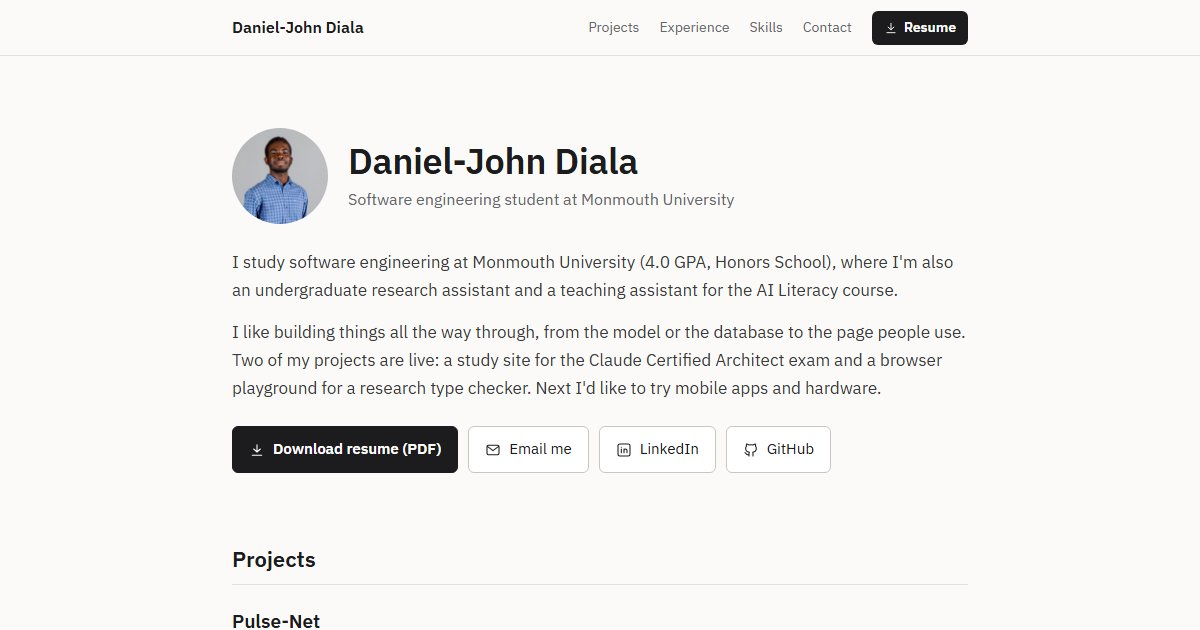
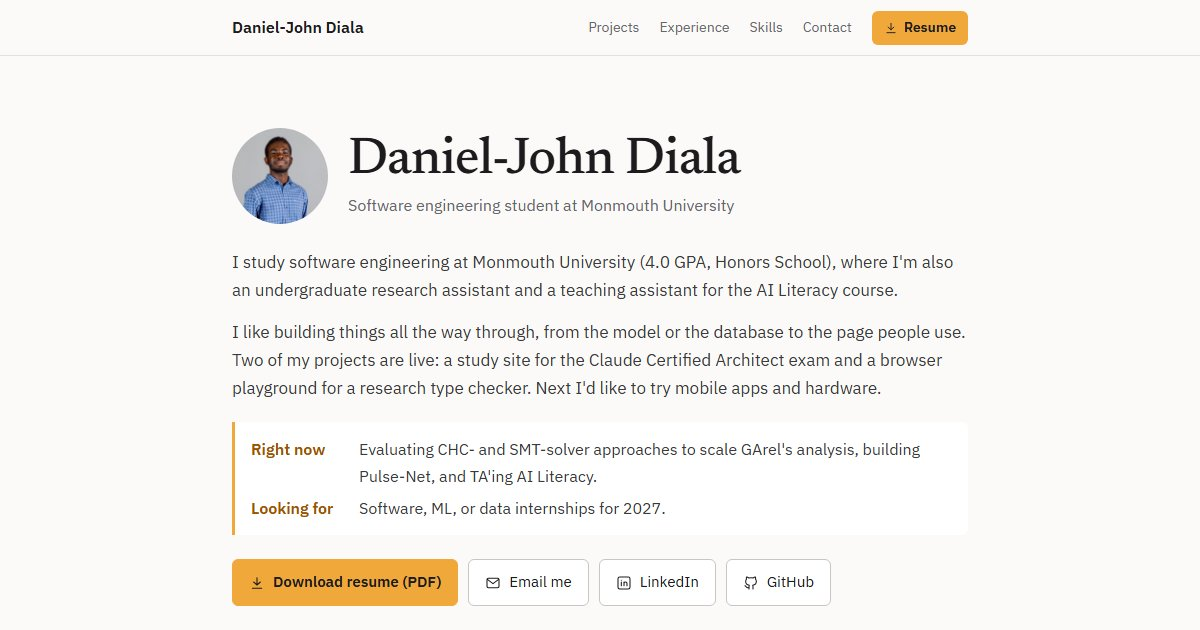
Add an amber accent, a serif name, a Right now line, and the hiring line
The contact section brings back 'Hiring or interested in building with me? Let's talk.' and says what internships I'm looking for in 2027.

diff --git a/src/styles/components.css b/src/styles/components.css
@@ -39,14 +39,14 @@
   min-height: 34px;
   padding: 4px 12px;
   border-radius: var(--radius);
-  background: var(--button-bg);
-  color: var(--button-text);
+  background: var(--accent);
+  color: var(--accent-text);
   font-size: var(--step--1);
   font-weight: 600;
   text-decoration: none;
 }
 .header-resume:hover {
-  background: var(--button-hover);
+  background: var(--accent-hover);
 }
 .header-resume svg {
   width: 14px;
@@ -73,10 +73,11 @@
 }
 .hero__name {
   margin: 0;
-  font-size: var(--step-3);
-  font-weight: 600;
-  line-height: 1.15;
-  letter-spacing: -0.01em;
+  font-family: var(--font-display);
+  font-size: clamp(2.25rem, 1.6rem + 2.6vw, 3.25rem);
+  font-weight: 500;
+  line-height: 1.05;
+  letter-spacing: -0.015em;
 }
 .hero__role {
   margin: 4px 0 0;
@@ -86,6 +87,28 @@
   margin: 0 0 14px;
   color: var(--text-soft);
   font-size: var(--step-1);
+}
+.hero__status {
+  display: grid;
+  gap: 6px;
+  margin: 20px 0 0;
+  padding: 14px 16px;
+  border-left: 3px solid var(--accent);
+  background: var(--surface);
+  border-radius: 0 var(--radius) var(--radius) 0;
+}
+.hero__status div {
+  display: grid;
+  grid-template-columns: 96px minmax(0, 1fr);
+  gap: 12px;
+}
+.hero__status dt {
+  color: var(--link);
+  font-weight: 600;
+}
+.hero__status dd {
+  margin: 0;
+  color: var(--text-soft);
 }
 .hero__actions {
   display: flex;
@@ -368,6 +391,19 @@
   padding-top: clamp(48px, 7vw, 72px);
   padding-bottom: 48px;
 }
+.footer__title {
+  margin: 0 0 16px;
+  padding-top: clamp(40px, 6vw, 56px);
+  border-top: 1px solid var(--line);
+  font-family: var(--font-display);
+  font-size: var(--step-3);
+  font-weight: 500;
+  line-height: 1.15;
+  letter-spacing: -0.01em;
+}
+.footer__title em {
+  color: var(--link);
+}
 .footer__text {
   margin: 0;
   color: var(--text-soft);
@@ -389,7 +425,8 @@
   .site-nav {
     display: none;
   }
-  .skills__row {
+  .skills__row,
+  .hero__status div {
     grid-template-columns: minmax(0, 1fr);
     gap: 2px;
   }

diff --git a/src/data/site.ts b/src/data/site.ts
@@ -7,6 +7,8 @@ export type Profile = {
   name: string
   role: string
   summary: string[]
+  now: string
+  seeking: string
   email: string
   links: { linkedin: string; github: string }
   resume: string
@@ -73,6 +75,8 @@ export const profile: Profile = {
     "I study software engineering at Monmouth University (4.0 GPA, Honors School), where I'm also an undergraduate research assistant and a teaching assistant for the AI Literacy course.",
     "I like building things all the way through, from the model or the database to the page people use. Two of my projects are live: a study site for the Claude Certified Architect exam and a browser playground for a research type checker. Next I'd like to try mobile apps and hardware.",
   ],
+  now: "Evaluating CHC- and SMT-solver approaches to scale GArel's analysis, building Pulse-Net, and TA'ing AI Literacy.",
+  seeking: 'Software, ML, or data internships for 2027.',
   email: 's1398883@monmouth.edu',
   links: {
     linkedin: 'https://www.linkedin.com/in/daniel-john-diala',

diff --git a/src/styles/global.css b/src/styles/global.css
@@ -58,8 +58,8 @@ main:focus {
   top: -48px;
   z-index: 200;
   padding: 8px 14px;
-  background: var(--button-bg);
-  color: var(--button-text);
+  background: var(--accent);
+  color: var(--accent-text);
   font-size: var(--step--1);
   text-decoration: none;
   transition: top 0.2s;
@@ -121,14 +121,14 @@ main:focus {
   border-color: var(--text);
 }
 .btn--primary {
-  background: var(--button-bg);
-  border-color: var(--button-bg);
-  color: var(--button-text);
+  background: var(--accent);
+  border-color: var(--accent);
+  color: var(--accent-text);
   font-weight: 600;
 }
 .btn--primary:hover {
-  background: var(--button-hover);
-  border-color: var(--button-hover);
+  background: var(--accent-hover);
+  border-color: var(--accent-hover);
 }
 .btn svg {
   width: 16px;

diff --git a/src/styles/tokens.css b/src/styles/tokens.css
@@ -8,11 +8,12 @@
   --muted: #66666b;
   --line: #e3e1dc;
   --line-strong: #c9c6bf;
-  --link: #1f56b3;
-  --button-bg: #1c1c1e;
-  --button-text: #ffffff;
-  --button-hover: #3a3a3c;
+  --link: #9a5300;
+  --accent: #f0a83a;
+  --accent-hover: #e39a2a;
+  --accent-text: #1c1c1e;
 
+  --font-display: 'Newsreader', Georgia, 'Times New Roman', serif;
   --font-body: 'IBM Plex Sans', system-ui, -apple-system, 'Segoe UI', sans-serif;
 
   --step--1: 0.875rem;
@@ -36,9 +37,9 @@
     --muted: #a1a1a8;
     --line: #2e2e31;
     --line-strong: #46464b;
-    --link: #8db4f5;
-    --button-bg: #ececee;
-    --button-text: #161617;
-    --button-hover: #d0d0d4;
+    --link: #f2b25c;
+    --accent: #f2b25c;
+    --accent-hover: #f6c27a;
+    --accent-text: #161617;
   }
 }

diff --git a/src/components/Footer.tsx b/src/components/Footer.tsx
@@ -7,11 +7,12 @@ const year = new Date().getFullYear()
 export function Footer() {
   return (
     <footer className="footer container" id="contact" aria-labelledby="contact-title">
-      <h2 className="section-title" id="contact-title">
-        Contact
+      <h2 className="footer__title" id="contact-title">
+        <span className="visually-hidden">Contact: </span>
+        Hiring or interested in building with me? <em>Let’s talk.</em>
       </h2>
       <p className="footer__text">
-        Email me at{' '}
+        I’m looking for software, ML, or data internships for 2027. Email me at{' '}
         <a className="text-link" href={`mailto:${profile.email}`}>
           {profile.email}
         </a>

diff --git a/src/components/Hero.tsx b/src/components/Hero.tsx
@@ -28,6 +28,17 @@ export function Hero() {
         </p>
       ))}
 
+      <dl className="hero__status">
+        <div>
+          <dt>Right now</dt>
+          <dd>{profile.now}</dd>
+        </div>
+        <div>
+          <dt>Looking for</dt>
+          <dd>{profile.seeking}</dd>
+        </div>
+      </dl>
+
       <div className="hero__actions">
         <a className="btn btn--primary" href={profile.resume} download>
           <DownloadIcon /> Download resume (PDF)

diff --git a/src/main.tsx b/src/main.tsx
@@ -1,6 +1,7 @@
 import { StrictMode } from 'react'
 import { createRoot, hydrateRoot } from 'react-dom/client'
 
+import '@fontsource/newsreader/latin-500.css'
 import '@fontsource/ibm-plex-sans/latin-400.css'
 import '@fontsource/ibm-plex-sans/latin-600.css'
 
